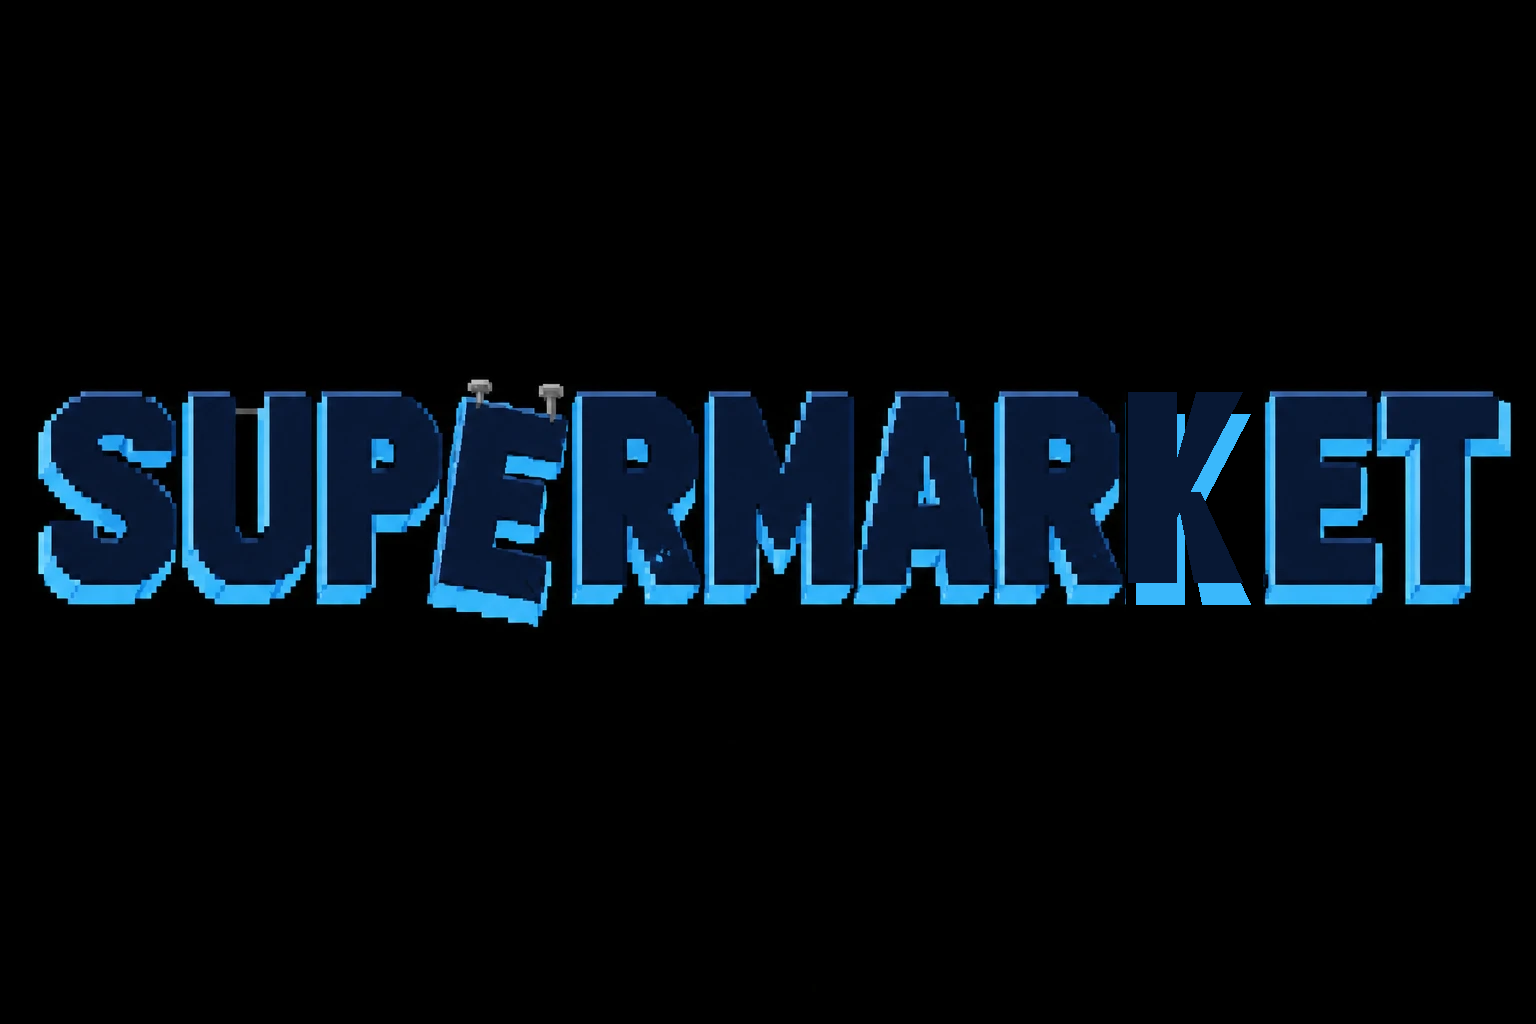
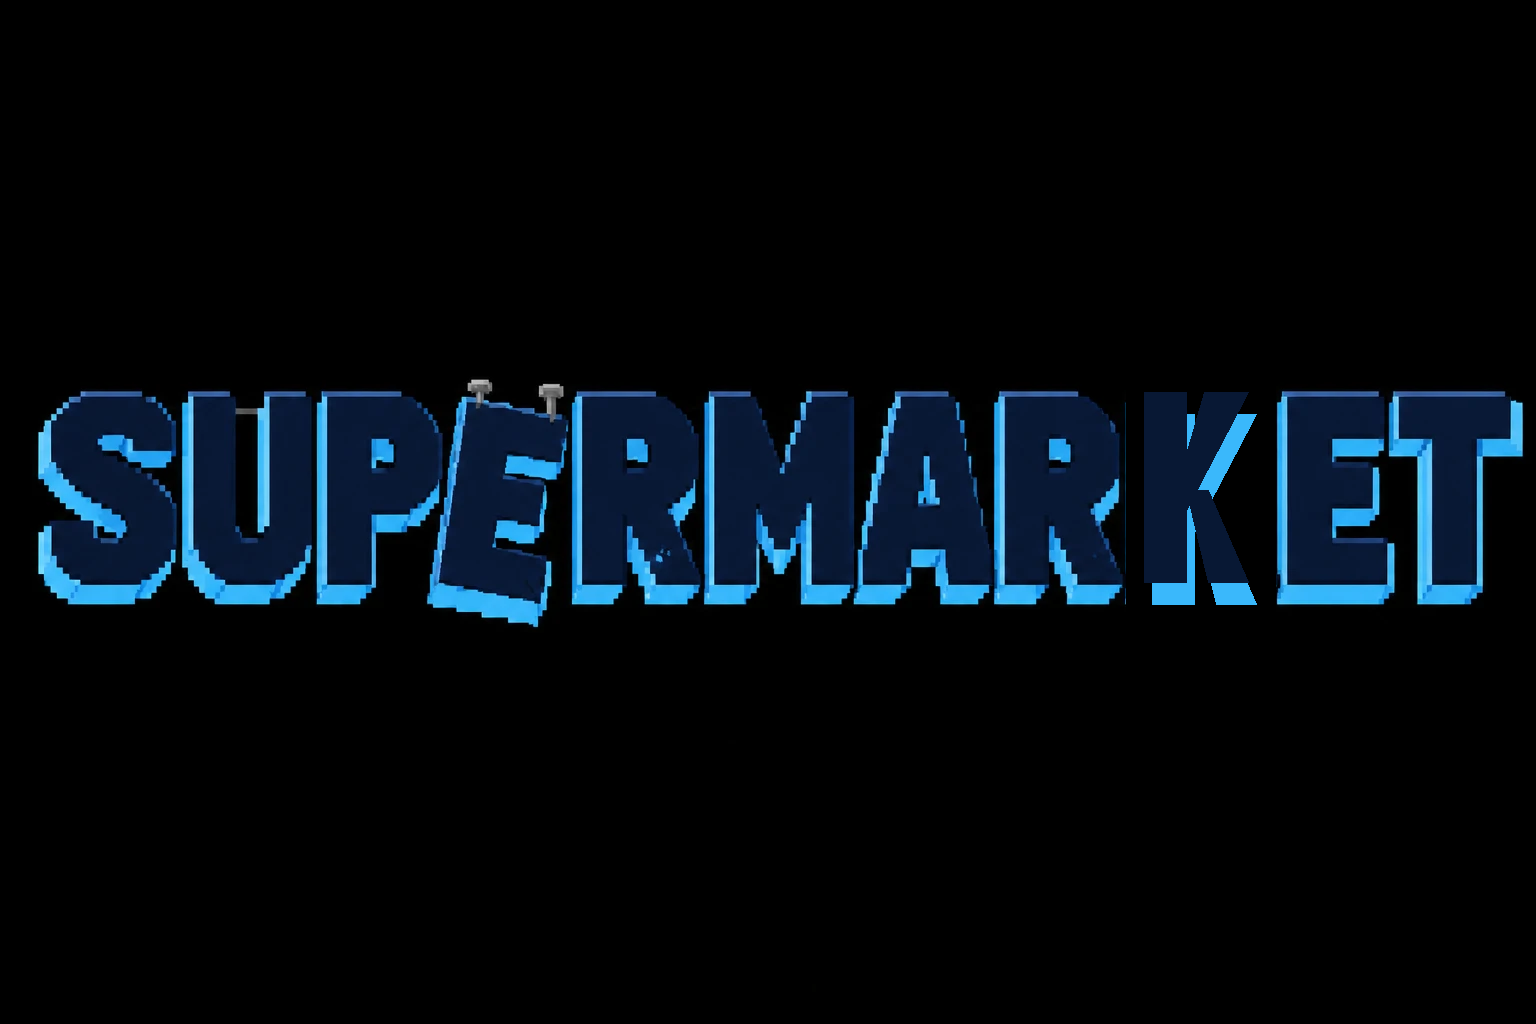
Letrero SUPERMARKET: la K, con aire a los dos lados (estaba pegada a la R y lejos de la E)
La E y la T se corren 12 píxeles a la derecha en la imagen y la K va en medio del hueco, algo más estrecha.

Changed region(s): [[0.7188, 0.375, 1.0, 0.5938]]

diff --git a/tools/letrero_super_k.py b/tools/letrero_super_k.py
@@ -10,15 +10,21 @@ CANTO = (58, 184, 251)
 
 im = Image.open("assets/sources/letrero-super-gpt.webp").convert("RGB")
 d = ImageDraw.Draw(im)
-# el sitio de la K (entre el canto de la R y la E), a negro puro
-d.rectangle((1126, 380, 1262, 615), fill=(0, 0, 0))
+# (y la tenía pegada a la R: el dueño la quiere con aire a los dos lados. GPT dejó las letras casi tocándose, así que la E
+# y la T se corren a la derecha CORRE píxeles para hacer sitio y la K va en medio del hueco, con HUECO a cada lado, que al
+# reducir sale como una columna vacía entre las letras)
+CORRE = 12
+HUECO = 20
+et = im.crop((1264, 370, 1536 - CORRE, 625))
+d.rectangle((1126, 370, 1535, 625), fill=(0, 0, 0))   # la K vieja, la E y la T, a negro puro
+im.paste(et, (1264 + CORRE, 370))
 
-x0, y0, h = 1128, 392, 190      # la cara: de la 392 a la 582, como las demás letras
-w, palo = 114, 48               # (lo que deja sitio a su canto antes de la E)
+x0, y0, h = 1124 + HUECO, 392, 190   # (la R acaba en la 1124) la cara: de la 392 a la 582, como las demás letras
+w, palo = 1264 + CORRE - HUECO - 8 - x0, 42   # hasta el canto de la E, dejando su hueco (el canto de la K, 8 más)
 partes = [
-    [(0, 0), (palo, 0), (palo, h), (0, h)],                 # el palo
-    [(palo, 70), (palo + 20, 0), (w, 0), (palo, 125)],      # el brazo de arriba
-    [(palo, 100), (palo + 24, 100), (w, h), (palo + 18, h)],   # la pierna (entre los dos, la V abierta)
+    [(0, 0), (palo, 0), (palo, h), (0, h)],                     # el palo
+    [(palo, 62), (palo + 18, 0), (w, 0), (palo, 118)],          # el brazo de arriba
+    [(palo, 98), (palo + 22, 98), (w, h), (w - 40, h)],         # la pierna (entre los dos, la V abierta)
 ]
 partes = [[(x0 + x, y0 + y) for x, y in q] for q in partes]
 for dx, dy, color in [(8, 22, CANTO), (0, 0, CARA)]:
